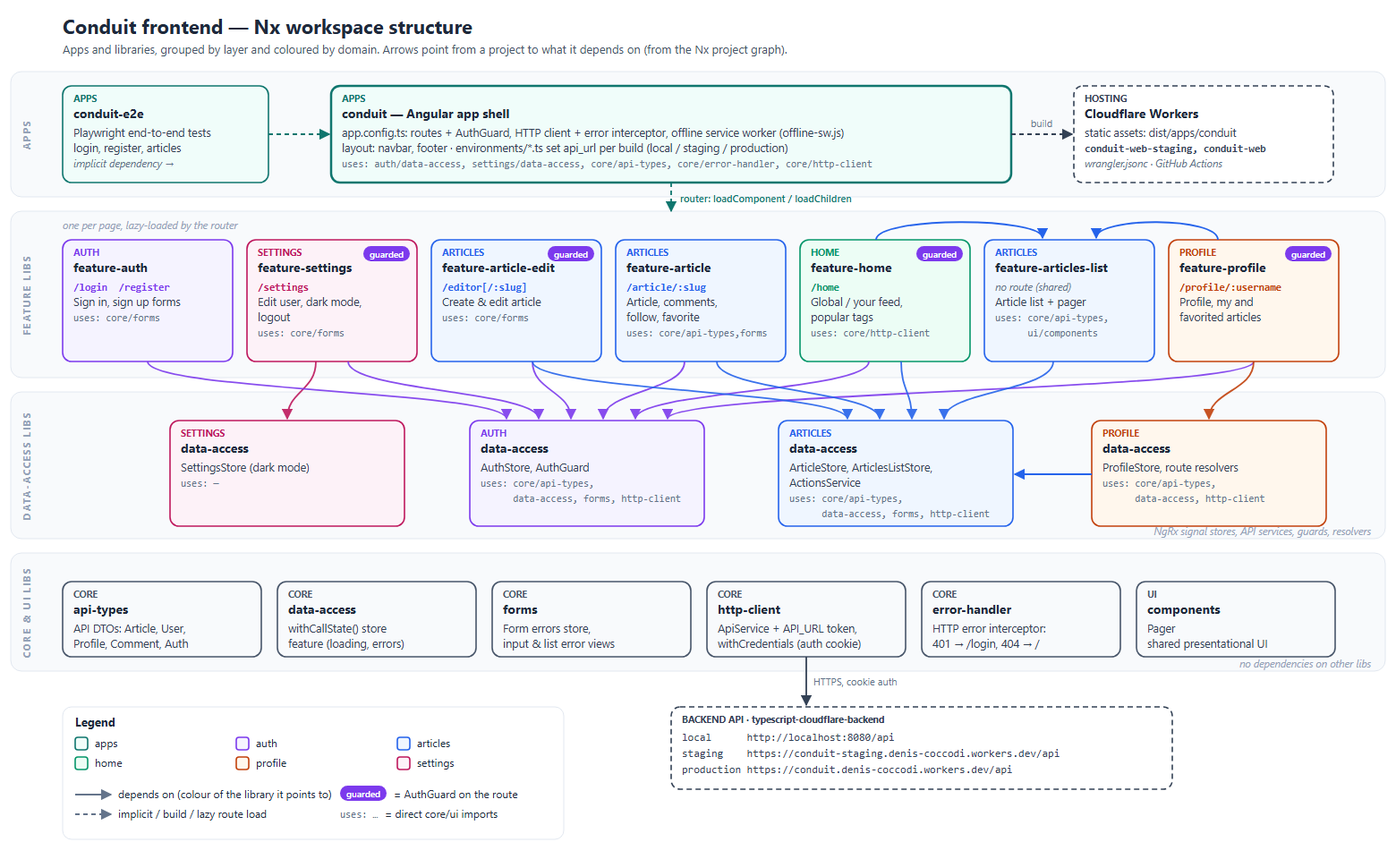
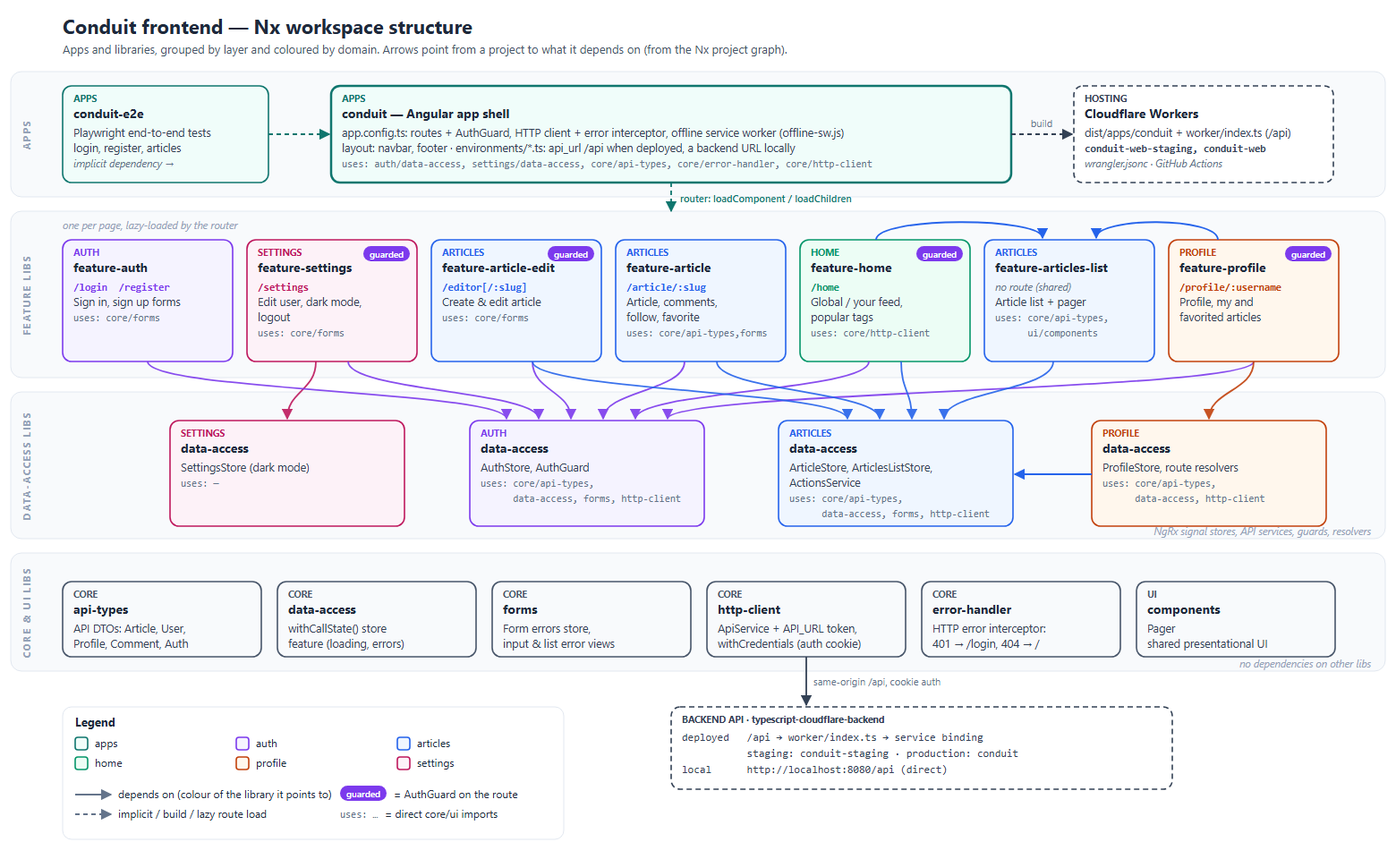
Serve /api through a service binding to the backend Worker (#9)
* Serve /api through a service binding to the backend Worker

The frontend Worker now runs worker/index.ts for /api/* and forwards those
requests to the environment's backend Worker over a service binding
(conduit / conduit-staging). Deployed builds call the relative /api, so the
browser only talks to one site: no CORS, first-party cookies, and a single
Cloudflare Access login on staging.

- wrangler.jsonc: main script, ASSETS binding, run_worker_first for /api/*,
  API service binding per environment
- environment.prod.ts / environment.staging.ts: api_url '/api'
- Default avatar served by the frontend (backend BASE_URL will point here)
- smoke.sh: API checked through <frontend>/api, bundle must use /api,
  avatar check; CORS checks dropped (same origin)
- Remove start:staging (the dev server can't pass Cloudflare Access)
- README, CLAUDE.md, skills and frontend diagram updated

* Check the default avatar after the new build is being served

---------

diff --git a/tools/diagrams/frontend-structure.js b/tools/diagrams/frontend-structure.js
@@ -163,7 +163,7 @@ box({
   strong: true,
   lines: [
     { t: 'app.config.ts: routes + AuthGuard, HTTP client + error interceptor, offline service worker (offline-sw.js)' },
-    { t: 'layout: navbar, footer  ·  environments/*.ts set api_url per build (local / staging / production)' },
+    { t: 'layout: navbar, footer  ·  environments/*.ts: api_url /api when deployed, a backend URL locally' },
     {
       t: 'uses: auth/data-access, settings/data-access, core/api-types, core/error-handler, core/http-client',
       kind: 'uses',
@@ -181,7 +181,7 @@ box({
   h: 108,
   dashed: true,
   lines: [
-    { t: 'static assets: dist/apps/conduit' },
+    { t: 'dist/apps/conduit + worker/index.ts (/api)' },
     { t: 'conduit-web-staging, conduit-web', kind: 'route' },
     { t: 'wrangler.jsonc · GitHub Actions', kind: 'muted' },
   ],
@@ -417,13 +417,17 @@ add(
   `<rect x="${BX}" y="${BY}" width="${BW}" height="${BH}" rx="10" fill="#ffffff" stroke="${C.ext}" stroke-width="1.6" stroke-dasharray="6 4"/>`,
 );
 text(BX + 12, BY + 18, 'BACKEND API  ·  typescript-cloudflare-backend', { size: 10.5, weight: 700, fill: C.ext });
-text(BX + 12, BY + 38, 'local      http://localhost:8080/api', { size: 12, family: MONO, fill: '#334155' });
-text(BX + 12, BY + 56, 'staging    https://conduit-staging.denis-coccodi.workers.dev/api', {
+text(BX + 12, BY + 38, 'deployed   /api → worker/index.ts → service binding', {
   size: 12,
   family: MONO,
   fill: '#334155',
 });
-text(BX + 12, BY + 74, 'production https://conduit.denis-coccodi.workers.dev/api', {
+text(BX + 12, BY + 56, '           staging: conduit-staging · production: conduit', {
+  size: 12,
+  family: MONO,
+  fill: '#334155',
+});
+text(BX + 12, BY + 74, 'local      http://localhost:8080/api (direct)', {
   size: 12,
   family: MONO,
   fill: '#334155',
@@ -433,7 +437,7 @@ add(
     C.ext
   }" stroke-width="1.8" marker-end="url(#a-ext)"/>`,
 );
-text(http.x + http.w / 2 + 8, CY + CH + 32, 'HTTPS, cookie auth', { size: 11, fill: '#64748b' });
+text(http.x + http.w / 2 + 8, CY + CH + 32, 'same-origin /api, cookie auth', { size: 11, fill: '#64748b' });
 
 // --- Legend
 const LX = X0,

diff --git a/worker/index.ts b/worker/index.ts
@@ -1,0 +1,30 @@
+// The Worker in front of the static Angular build (see wrangler.jsonc).
+//
+// /api/* is forwarded to the backend Worker over a service binding (API), so the
+// browser only ever talks to this site: no CORS, first-party cookies, and one
+// Cloudflare Access login on staging. Everything else is a static file, with
+// index.html for unknown paths (single-page-application fallback).
+//
+// Only /api/* reaches this script (assets.run_worker_first); the ASSETS branch
+// below is a fallback in case that routing changes.
+
+interface Fetcher {
+  fetch(request: Request): Promise<Response>;
+}
+
+interface Env {
+  API: Fetcher;
+  ASSETS: Fetcher;
+}
+
+export default {
+  fetch(request: Request, env: Env): Promise<Response> {
+    const { pathname } = new URL(request.url);
+
+    if (pathname === '/api' || pathname.startsWith('/api/')) {
+      return env.API.fetch(request);
+    }
+
+    return env.ASSETS.fetch(request);
+  },
+};

diff --git a/apps/conduit/src/environments/environment.ts b/apps/conduit/src/environments/environment.ts
@@ -9,8 +9,10 @@ export const environment = {
   serviceWorker: false,
   // Local backend: `npx wrangler dev --port 8080` in ../typescript-cloudflare-backend.
   api_url: 'http://localhost:8080/api',
-  // Staging backend:
+  // Staging backend: it is behind Cloudflare Access, so first open
+  // https://conduit-staging.denis-coccodi.workers.dev/api/tags in this browser and
+  // log in; its CORS allows http://localhost:4200.
   // api_url: 'https://conduit-staging.denis-coccodi.workers.dev/api',
-  // Production backend:
-  // api_url: 'https://conduit.denis-coccodi.workers.dev/api',
+  // The production backend only accepts the production site, not localhost.
+  // Deployed builds use the relative '/api' (environment.staging.ts, environment.prod.ts).
 };

diff --git a/apps/conduit/src/environments/environment.staging.ts b/apps/conduit/src/environments/environment.staging.ts
@@ -1,7 +1,8 @@
 // Staging: `nx build conduit --configuration=staging`, deployed to
-// https://conduit-web-staging.denis-coccodi.workers.dev.
+// https://conduit-web-staging.denis-coccodi.workers.dev. The site forwards /api to
+// the staging backend over a service binding (wrangler.jsonc, worker/index.ts).
 export const environment = {
   production: true,
   serviceWorker: true,
-  api_url: 'https://conduit-staging.denis-coccodi.workers.dev/api',
+  api_url: '/api',
 };

diff --git a/apps/conduit/src/environments/environment.prod.ts b/apps/conduit/src/environments/environment.prod.ts
@@ -1,7 +1,8 @@
 // Production: `nx build conduit --configuration=production`, deployed to
-// https://conduit-web.denis-coccodi.workers.dev.
+// https://conduit-web.denis-coccodi.workers.dev. The site forwards /api to the
+// production backend over a service binding (wrangler.jsonc, worker/index.ts).
 export const environment = {
   production: true,
   serviceWorker: true,
-  api_url: 'https://conduit.denis-coccodi.workers.dev/api',
+  api_url: '/api',
 };

diff --git a/.claude/skills/deploy/SKILL.md b/.claude/skills/deploy/SKILL.md
@@ -7,19 +7,20 @@ description: Ship the Conduit Angular frontend to Cloudflare Workers (staging, t
 
 Repo: `denis-coccodi/nx-angular-social-example`, branch `main`. Cloudflare account ID: `ba2955b2991a5a38d46bc4144212e9cc` (same account as the backend).
 
-| Environment | Worker                | URL                                                   | Build configuration / env file            | Calls backend                                         | wrangler                                                       |
+| Environment | Worker                | URL                                                   | Build configuration / env file            | `/api` goes to                                        | wrangler                                                       |
 | ----------- | --------------------- | ----------------------------------------------------- | ----------------------------------------- | ----------------------------------------------------- | -------------------------------------------------------------- |
-| local       | —                     | http://localhost:4200                                 | `development` / `debug`: `environment.ts` | http://localhost:8080/api (editable)                  | `npx wrangler dev` (`npm run start-sw`)                        |
-| staging     | `conduit-web-staging` | https://conduit-web-staging.denis-coccodi.workers.dev | `staging`: `environment.staging.ts`       | https://conduit-staging.denis-coccodi.workers.dev/api | `npx wrangler deploy --env staging` (`npm run deploy:staging`) |
-| production  | `conduit-web`         | https://conduit-web.denis-coccodi.workers.dev         | `production`: `environment.prod.ts`       | https://conduit.denis-coccodi.workers.dev/api         | `npx wrangler deploy` (`npm run deploy`)                       |
+| local       | —                     | http://localhost:4200                                 | `development` / `debug`: `environment.ts` | http://localhost:8080/api, called directly (editable) | `npx wrangler dev` (`npm run start-sw`)                        |
+| staging     | `conduit-web-staging` | https://conduit-web-staging.denis-coccodi.workers.dev | `staging`: `environment.staging.ts`       | backend Worker `conduit-staging` (service binding)    | `npx wrangler deploy --env staging` (`npm run deploy:staging`) |
+| production  | `conduit-web`         | https://conduit-web.denis-coccodi.workers.dev         | `production`: `environment.prod.ts`       | backend Worker `conduit` (service binding)            | `npx wrangler deploy` (`npm run deploy`)                       |
 
 ## How it fits together
 
-- `wrangler.jsonc` (repo root) only serves `dist/apps/conduit` as static assets with SPA fallback; there is no Worker script. Staging is `env.staging` (a separate Worker, `conduit-web-staging`); `assets` is inherited.
-- The backend URL is baked in at build time by `fileReplacements` in `apps/conduit/project.json`, so **build with the configuration of the environment you deploy to**: `--configuration=staging` before `wrangler deploy --env staging`, `--configuration=production` before `wrangler deploy`. Deploying the wrong build points the site at the wrong backend; the smoke test catches it (`bundle calls <api-url>`).
-- `environment.ts` is the local default and is meant to be edited by hand: it lists the staging and production URLs as comments. Its `serviceWorker` flag is off locally; the staging and production files turn it on.
-- The browser calls the backend cross-origin with credentials. The backend's `CORS_ORIGINS` (its `wrangler.jsonc`, per environment) must list the frontend's origin; `localhost:4200` is allowed on both backends. A new frontend URL needs a backend change first (backend repo: `../typescript-cloudflare-backend`, see its `deploy` skill).
-- The auth cookie is `SameSite=None; Secure`. Every `*.workers.dev` subdomain is a separate site, so it is a third-party cookie for the deployed frontends: browsers that block third-party cookies (Safari by default) will not stay logged in. Serving frontend and backend under one custom domain would fix it.
+- `wrangler.jsonc` (repo root) serves `dist/apps/conduit` as static assets with SPA fallback, and runs `worker/index.ts` first for `/api/*` only (`assets.run_worker_first`). The script forwards those requests to the backend Worker over the `API` service binding: `conduit` at the top level, `conduit-staging` under `env.staging` (bindings are not inherited, so each environment sets its own). Staging is a separate Worker, `conduit-web-staging`; `main` and `assets` are inherited.
+- The browser therefore only talks to the frontend's site: no CORS, and the backend's auth cookie is first-party (set on the frontend host). Staging needs only the frontend's Cloudflare Access login; the binding reaches the backend inside Cloudflare, without passing the backend's own Access lock.
+- Deployed builds (`environment.staging.ts`, `environment.prod.ts`) use `api_url: '/api'`. Which backend answers is decided by the binding of the Worker you deploy to, so **build with the configuration of the environment you deploy to** mainly for the right environment file flags; the smoke test checks the bundle uses `/api`, not a dev URL.
+- The bound backend Worker must exist under that name, or `/api` fails. Renaming a backend Worker needs a change here first.
+- `environment.ts` is the local dev build: it calls a backend directly (default `http://localhost:8080/api`, staging as a comment; staging's CORS allows `localhost:4200`). Its `serviceWorker` flag is off locally; the staging and production files turn it on.
+- The backend's default avatar URL is built from the backend's `BASE_URL`, which points at this site; the image is `apps/conduit/src/assets/images/avatar-profile.png` here.
 
 ## Normal path: merge a PR into main
 
@@ -63,10 +64,10 @@ Wrangler on this machine is logged in with OAuth (`npx wrangler whoami`). Build 
 ## Known failure causes
 
 - **Missing secrets**: the deploy step fails with "it's necessary to set a CLOUDFLARE_API_TOKEN". Fix on GitHub, then `gh run rerun --failed`.
-- **Smoke test: `no bundle script contains <api-url> after 60s`**: the deployed build was made with the wrong configuration. Rebuild with the right one and redeploy. (Right after a deploy Cloudflare serves the previous build for a few seconds; the check retries for up to `BUNDLE_WAIT` seconds, default 60, to ride that out.)
-- **Smoke test: `[cors: … not allowed with credentials]`**, or in the browser "blocked by CORS policy": the backend of that environment does not list the frontend origin in `CORS_ORIGINS`, or that backend change is not deployed yet.
+- **Smoke test: `no bundle script contains api_url "/api" after 60s`**: a dev build was deployed. Rebuild with the environment's configuration and redeploy. (Right after a deploy Cloudflare serves the previous build for a few seconds; the check retries for up to `BUNDLE_WAIT` seconds, default 60, to ride that out.)
+- **Smoke test: `GET /api/tags via the frontend` returns HTML**: `/api/*` is not reaching `worker/index.ts`; check `assets.run_worker_first` in `wrangler.jsonc`. **5xx from `/api`**: the bound backend Worker is missing or failing; check it with the backend's `smoke-test` skill.
+- **Staging smoke test gets `302` to `*.cloudflareaccess.com`**: Cloudflare Access rejected CI. The `CI service token` (Service Auth) policy must be on the `conduit-web-staging` Access application; check Zero Trust → Applications → its Policies tab (it can differ from the Worker's Access tab), and the `CF_ACCESS_CLIENT_*` repository secrets.
 - **Smoke test gets `404` / `error code: 1042`**: a brand-new `workers.dev` hostname is not live yet. Only on a Worker's first deploy; re-run the job after a minute.
 - **API calls return 5xx but the shell loads**: the backend is failing; check it with the backend's `smoke-test` skill.
-- **Logged out right after logging in (Safari, strict privacy settings)**: third-party cookie blocked; see "How it fits together".
 - **Users see an old version after deploy**: `offline-sw.js` caches responses; a hard reload or unregistering the service worker fixes it.
 - **Free-plan caps**: daily request limits are shared by all Workers on the account.

diff --git a/.claude/skills/smoke-test/SKILL.md b/.claude/skills/smoke-test/SKILL.md
@@ -1,41 +1,45 @@
 ---
 name: smoke-test
-description: Check that the Conduit frontend is served, was built for the right backend, and that the backend accepts it (CORS with credentials, cookie auth), locally (wrangler dev), on staging, or on production. Use when asked whether the site is up, whether a deploy worked, or to verify a change in the running app rather than in unit tests.
+description: Check that the Conduit frontend is served, was built with the right configuration, and that its /api reaches the backend through the service binding (cookie auth included), locally (wrangler dev), on staging, or on production. Use when asked whether the site is up, whether a deploy worked, or to verify a change in the running app rather than in unit tests.
 ---
 
 # Smoke-test the Conduit frontend
 
-`scripts/smoke.sh` (also run by CI) checks a running frontend and the backend it was built for, with curl and a cookie jar. It prints `ok`/`FAIL` per check, masks JWTs, and exits non-zero on any unexpected status or body.
+`scripts/smoke.sh` (also run by CI) checks a running frontend with curl and a cookie jar. The site forwards `/api/*` to its backend Worker over a service binding, so the API is tested through `<frontend-url>/api`. It prints `ok`/`FAIL` per check, masks JWTs, and exits non-zero on any unexpected status or body.
 
-- `read`: app shell (`<cdt-root`), a deep link (SPA fallback), `offline-sw.js`; that a script in the deployed bundle sets `api_url` to `<api-url>` (catches a build made with the wrong configuration); `GET <api-url>/tags`; and that the backend answers the frontend's origin with `Access-Control-Allow-Origin` + `Allow-Credentials`, for a GET and a `POST /users` preflight. Writes nothing.
-- `create`: `read`, then registers a random user and reads `/user` back with the cookie, sending the frontend's `Origin`.
+- `read`: app shell (`<cdt-root`), a deep link (SPA fallback), `offline-sw.js`, the default avatar (`/assets/images/avatar-profile.png` is an image); that a script in the deployed bundle sets `api_url` to `/api` (catches a dev build deployed by mistake); and `GET /api/tags` answered by the backend, not by the SPA fallback. Writes nothing.
+- `create`: `read`, then registers a random user and reads `/api/user` back with the cookie.
 
 ```
-sh scripts/smoke.sh read   <frontend-url> <api-url>
-sh scripts/smoke.sh create <frontend-url> <api-url> <scratchpad>/jar.txt
+sh scripts/smoke.sh read   <frontend-url>
+sh scripts/smoke.sh create <frontend-url> <scratchpad>/jar.txt
 ```
 
-curl does not enforce `SameSite` or third-party cookie blocking, so `create` passing does not prove a browser keeps the session; see the `deploy` skill on cross-site cookies.
+`BUNDLE_API=http://localhost:8080/api` makes the bundle check expect a dev build instead.
 
 ## Targets
 
-| Target                 | Frontend URL                                          | API URL                                                   | `create` allowed?                            |
-| ---------------------- | ----------------------------------------------------- | --------------------------------------------------------- | -------------------------------------------- |
-| local (`wrangler dev`) | http://localhost:4200                                 | http://localhost:8080/api (or what `environment.ts` says) | yes                                          |
-| staging                | https://conduit-web-staging.denis-coccodi.workers.dev | https://conduit-staging.denis-coccodi.workers.dev/api     | yes; CI already does on every push to `main` |
-| production             | https://conduit-web.denis-coccodi.workers.dev         | https://conduit.denis-coccodi.workers.dev/api             | ask the user first; `read` is always fine    |
+| Target                 | Frontend URL                                          | `create` allowed?                                                                                                                                                                                                |
+| ---------------------- | ----------------------------------------------------- | ---------------------------------------------------------------------------------------------------------------------------------------------------------------------------------------------------------------- |
+| local (`wrangler dev`) | http://localhost:4200                                 | yes                                                                                                                                                                                                              |
+| staging                | https://conduit-web-staging.denis-coccodi.workers.dev | yes; CI already does on every merge to `main`. Behind Cloudflare Access: export `CF_ACCESS_CLIENT_ID`/`CF_ACCESS_CLIENT_SECRET` (a service token the user holds) or every check gets a `302` to the Access login |
+| production             | https://conduit-web.denis-coccodi.workers.dev         | ask the user first; `read` is always fine                                                                                                                                                                        |
 
 ## Local
 
-1. Start the backend from `../typescript-cloudflare-backend`: `npx wrangler dev --port 8080` (needs its `.dev.vars`). Wait until `curl -s http://localhost:8080/api/tags` answers.
-2. Build and serve the frontend: `npx nx run conduit:build --configuration=<debug|staging|production>`, then `npx wrangler dev` (port 4200). `debug` uses `environment.ts` (local backend); `staging` calls the real staging backend, which allows `http://localhost:4200`, so this tests a staging build before deploying it.
-3. Run `create` with the matching API URL.
+The service binding works locally too: `wrangler dev` connects to another `wrangler dev` session of the bound Worker on the same machine.
 
-- The dev server (`npm start`) has no built shell to check; curl the API directly instead.
+1. Start the backend from `../typescript-cloudflare-backend`: `npx wrangler dev --port 8080` (needs its `.dev.vars`). Wait until `curl -s http://localhost:8080/api/tags` answers.
+2. Build and serve the frontend: `npx nx run conduit:build --configuration=production`, then `npx wrangler dev` (port 4200). Its `/api` goes to the local backend (binding `API` → `conduit`).
+   - A staging build with `npx wrangler dev --env staging` binds to `conduit-staging`, so start the backend with `npx wrangler dev --env staging --port 8080` instead.
+3. `sh scripts/smoke.sh create http://localhost:4200 <scratchpad>/jar.txt`.
+
+- The dev server (`npm start`) uses `environment.ts` and calls the backend directly; there is no built shell or binding to check.
 - On Windows, stopping a background Bash task can leave `wrangler`'s node process and its `workerd.exe` children running (they then lock `node_modules`). Stop them from PowerShell:
   `Get-CimInstance Win32_Process -Filter "Name='node.exe'" | ? { $_.CommandLine -match 'node_modules\\wrangler' } | % { Stop-Process -Id $_.ProcessId -Force }; Get-Process workerd -ErrorAction SilentlyContinue | Stop-Process -Force`
 
 ## Notes
 
 - A newly created `*.workers.dev` hostname answers `404` with `error code: 1042` for up to a minute or so. Wait and retry before treating it as a failure.
+- `GET /api/tags` returning the app shell (HTML) instead of JSON means `/api/*` is not reaching the Worker script: check `assets.run_worker_first` in `wrangler.jsonc`. A `5xx` from `/api` usually means the bound backend Worker does not exist under that name.
 - For a full browser check, run the app and drive it with Playwright (`apps/conduit-e2e`), pointing `BASE_URL` at the target.

diff --git a/README.md b/README.md
@@ -22,12 +22,19 @@ Both images are generated: run `node tools/diagrams/frontend-structure.js docs/f
 
 ## Environments and deployment
 
-The app runs on Cloudflare Workers as static assets and calls the [backend](../typescript-cloudflare-backend) of its environment directly. The backend URL comes from the environment file the build uses:
+The app runs on Cloudflare Workers. The deployed builds call the relative `/api`: a small Worker script ([worker/index.ts](worker/index.ts)) forwards `/api/*` to the [backend](../typescript-cloudflare-backend) Worker of the same environment over a [service binding](https://developers.cloudflare.com/workers/runtime-apis/bindings/service-bindings/), and every other path is a static file (with `index.html` for unknown paths). The browser only ever talks to one site, so there is no CORS, the backend's cookies are first-party, and staging needs a single Cloudflare Access login.
 
-| Environment | URL                                                   | Environment file                                                               | Backend                                               | Deployed by                                                                               |
-| ----------- | ----------------------------------------------------- | ------------------------------------------------------------------------------ | ----------------------------------------------------- | ----------------------------------------------------------------------------------------- |
-| local       | http://localhost:4200                                 | [environment.ts](apps/conduit/src/environments/environment.ts)                 | http://localhost:8080/api                             | `npm start`                                                                               |
-| staging     | https://conduit-web-staging.denis-coccodi.workers.dev | [environment.staging.ts](apps/conduit/src/environments/environment.staging.ts) | https://conduit-staging.denis-coccodi.workers.dev/api | every merge to `main` ([CI/CD](.github/workflows/ci-cd.yaml))                             |
-| production  | https://conduit-web.denis-coccodi.workers.dev         | [environment.prod.ts](apps/conduit/src/environments/environment.prod.ts)       | https://conduit.denis-coccodi.workers.dev/api         | by hand: Actions → Deploy production → Run workflow, only for commits that passed staging |
+```
+Browser ──> conduit-web(-staging)  ├─ static files (Angular build)
+                                   └─ /api/* ──service binding──> conduit(-staging) backend
+```
 
-Local development: start the backend (`npx wrangler dev --port 8080` in the backend repo), then `npm start`. To develop against another backend, change `api_url` in `environment.ts` (the staging and production URLs are there as comments), or run `npm run start:staging` to serve the staging build. `npm run start-sw` builds the app and serves the built files with `wrangler dev`; set `serviceWorker: true` in `environment.ts` to try the offline features.
+| Environment | URL                                                   | Environment file                                                               | API                                                      | Deployed by                                                                               |
+| ----------- | ----------------------------------------------------- | ------------------------------------------------------------------------------ | -------------------------------------------------------- | ----------------------------------------------------------------------------------------- |
+| local       | http://localhost:4200                                 | [environment.ts](apps/conduit/src/environments/environment.ts)                 | http://localhost:8080/api (direct, CORS)                 | `npm start`                                                                               |
+| staging     | https://conduit-web-staging.denis-coccodi.workers.dev | [environment.staging.ts](apps/conduit/src/environments/environment.staging.ts) | `/api` → `conduit-staging` (binding in `wrangler.jsonc`) | every merge to `main` ([CI/CD](.github/workflows/ci-cd.yaml))                             |
+| production  | https://conduit-web.denis-coccodi.workers.dev         | [environment.prod.ts](apps/conduit/src/environments/environment.prod.ts)       | `/api` → `conduit` (binding in `wrangler.jsonc`)         | by hand: Actions → Deploy production → Run workflow, only for commits that passed staging |
+
+Staging is behind [Cloudflare Access](https://developers.cloudflare.com/cloudflare-one/policies/access/): only allowed people can open it, after logging in once. CI gets through with an Access service token (`CF_ACCESS_CLIENT_ID` / `CF_ACCESS_CLIENT_SECRET` repository secrets).
+
+Local development: start the backend (`npx wrangler dev --port 8080` in the backend repo), then `npm start`; the dev build calls it directly. To develop against the staging backend, set `api_url` in `environment.ts` to its URL (there as a comment) and first open that URL in the browser to log in to Cloudflare Access; its CORS allows `localhost:4200`. `npm run start-sw` builds the app and serves the built files with `wrangler dev`; set `serviceWorker: true` in `environment.ts` to try the offline features.

diff --git a/CLAUDE.md b/CLAUDE.md
@@ -3,4 +3,4 @@
 - Every change goes through a `feature/<name>` branch and a pull request to `main`, merged once the `test` check passes. Follow the `feature-branch` skill before the first edit.
 - Merging to `main` deploys staging automatically. Production is deployed by hand (`deploy` skill); never start it unless asked.
 - `npx nx run-many -t lint test && npx nx run conduit:build --configuration=production && npx nx run conduit:build --configuration=staging` must exit 0 before pushing (the same as the `test` check).
-- Each environment calls its own backend (`../typescript-cloudflare-backend`), set in `apps/conduit/src/environments/` and picked by the build configuration (`staging`, `production`); `environment.ts` is local and meant to be edited by hand. See the `deploy` skill.
+- Deployed builds call the relative `/api`, which `worker/index.ts` forwards to the environment's backend Worker (`../typescript-cloudflare-backend`) over the service binding in `wrangler.jsonc`. `environment.ts` is the local dev build, calls a backend directly, and is meant to be edited by hand. See the `deploy` skill.
